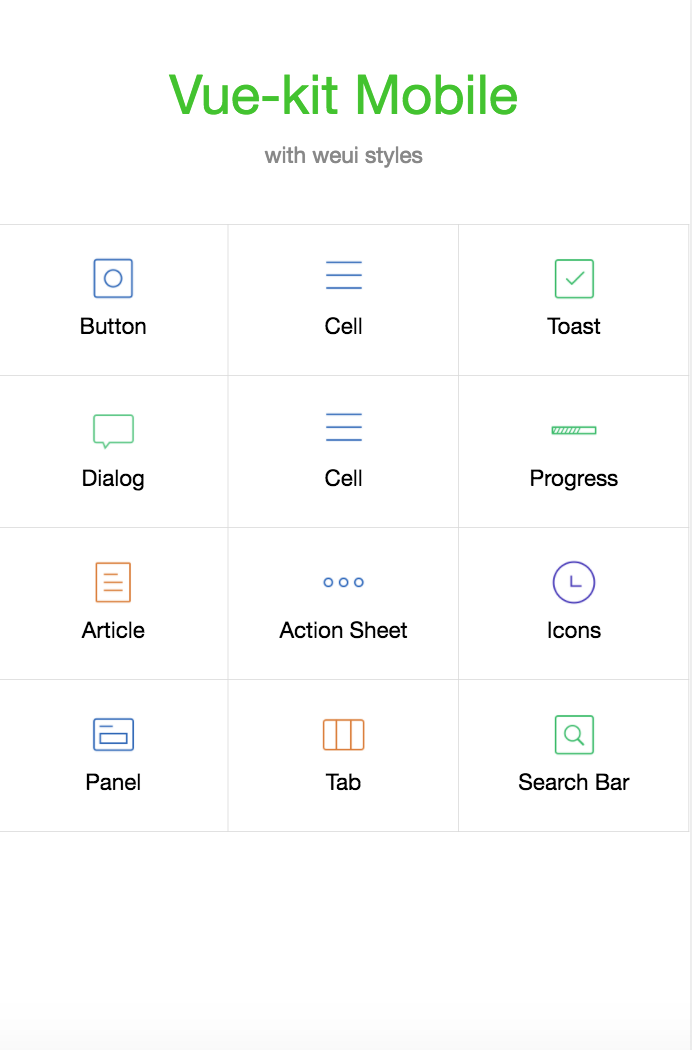
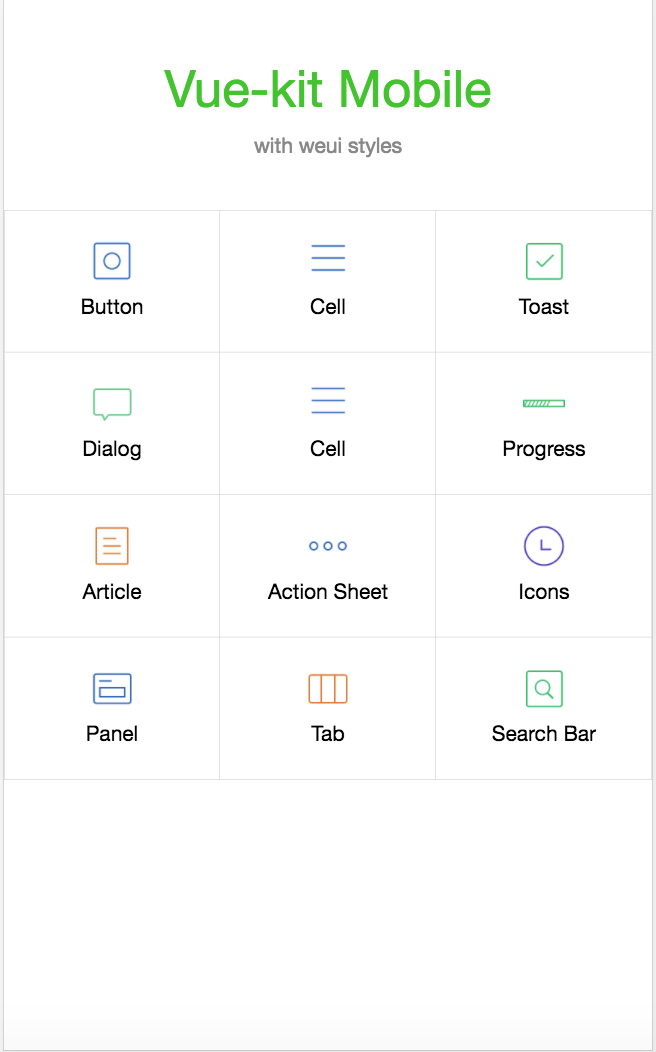
doc: 修改图片大小

diff --git a/README.md b/README.md
@@ -10,10 +10,12 @@
 
 ## Screen shots
 * Desktop Admin
+
 ![](src/assets/img/screen-dashboard.png)
 
 * Mobile
-![](src/assets/img/screen-mobile-index.png)
+
+![](src/assets/img/screen-mobile-index.png =328×526)
 
 ## Build Setup
 
